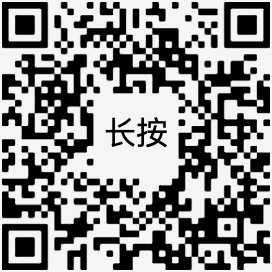
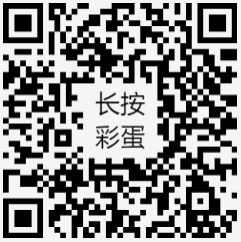
feat: change pay article

diff --git a/src/components/PayArticle/index.tsx b/src/components/PayArticle/index.tsx
@@ -9,15 +9,15 @@ const QR: React.FC = () => (
     <div style={{ textAlign: 'center' }}>
       <Paragraph>如果这个🔧帮你赚（省）💰了，就请我喝杯🥤吧~</Paragraph>
       {/* <QRCode
-        value="https://mp.weixin.qq.com/s/c9h0B3pqCuRpOO1BjXhQiA"
+        value="https://mp.weixin.qq.com/s/P5yCaZaWzOMAruYpkxkjlw"
         errorLevel="H"
         icon={icon}
       /> */}
       <img style={{ width: 100 }} src={ImgPayArticle} alt="pay article" />
       <br />
-      <Text type="secondary">因为不能放收款码，所以只能用文章打赏了</Text>
+      <Text type="secondary">长按识别二维码</Text>
     </div>
-    <Divider>祝大家早日💰自由</Divider>
+    <Divider>有彩蛋哦~祝大家早日💰自由</Divider>
   </>
 );
 
